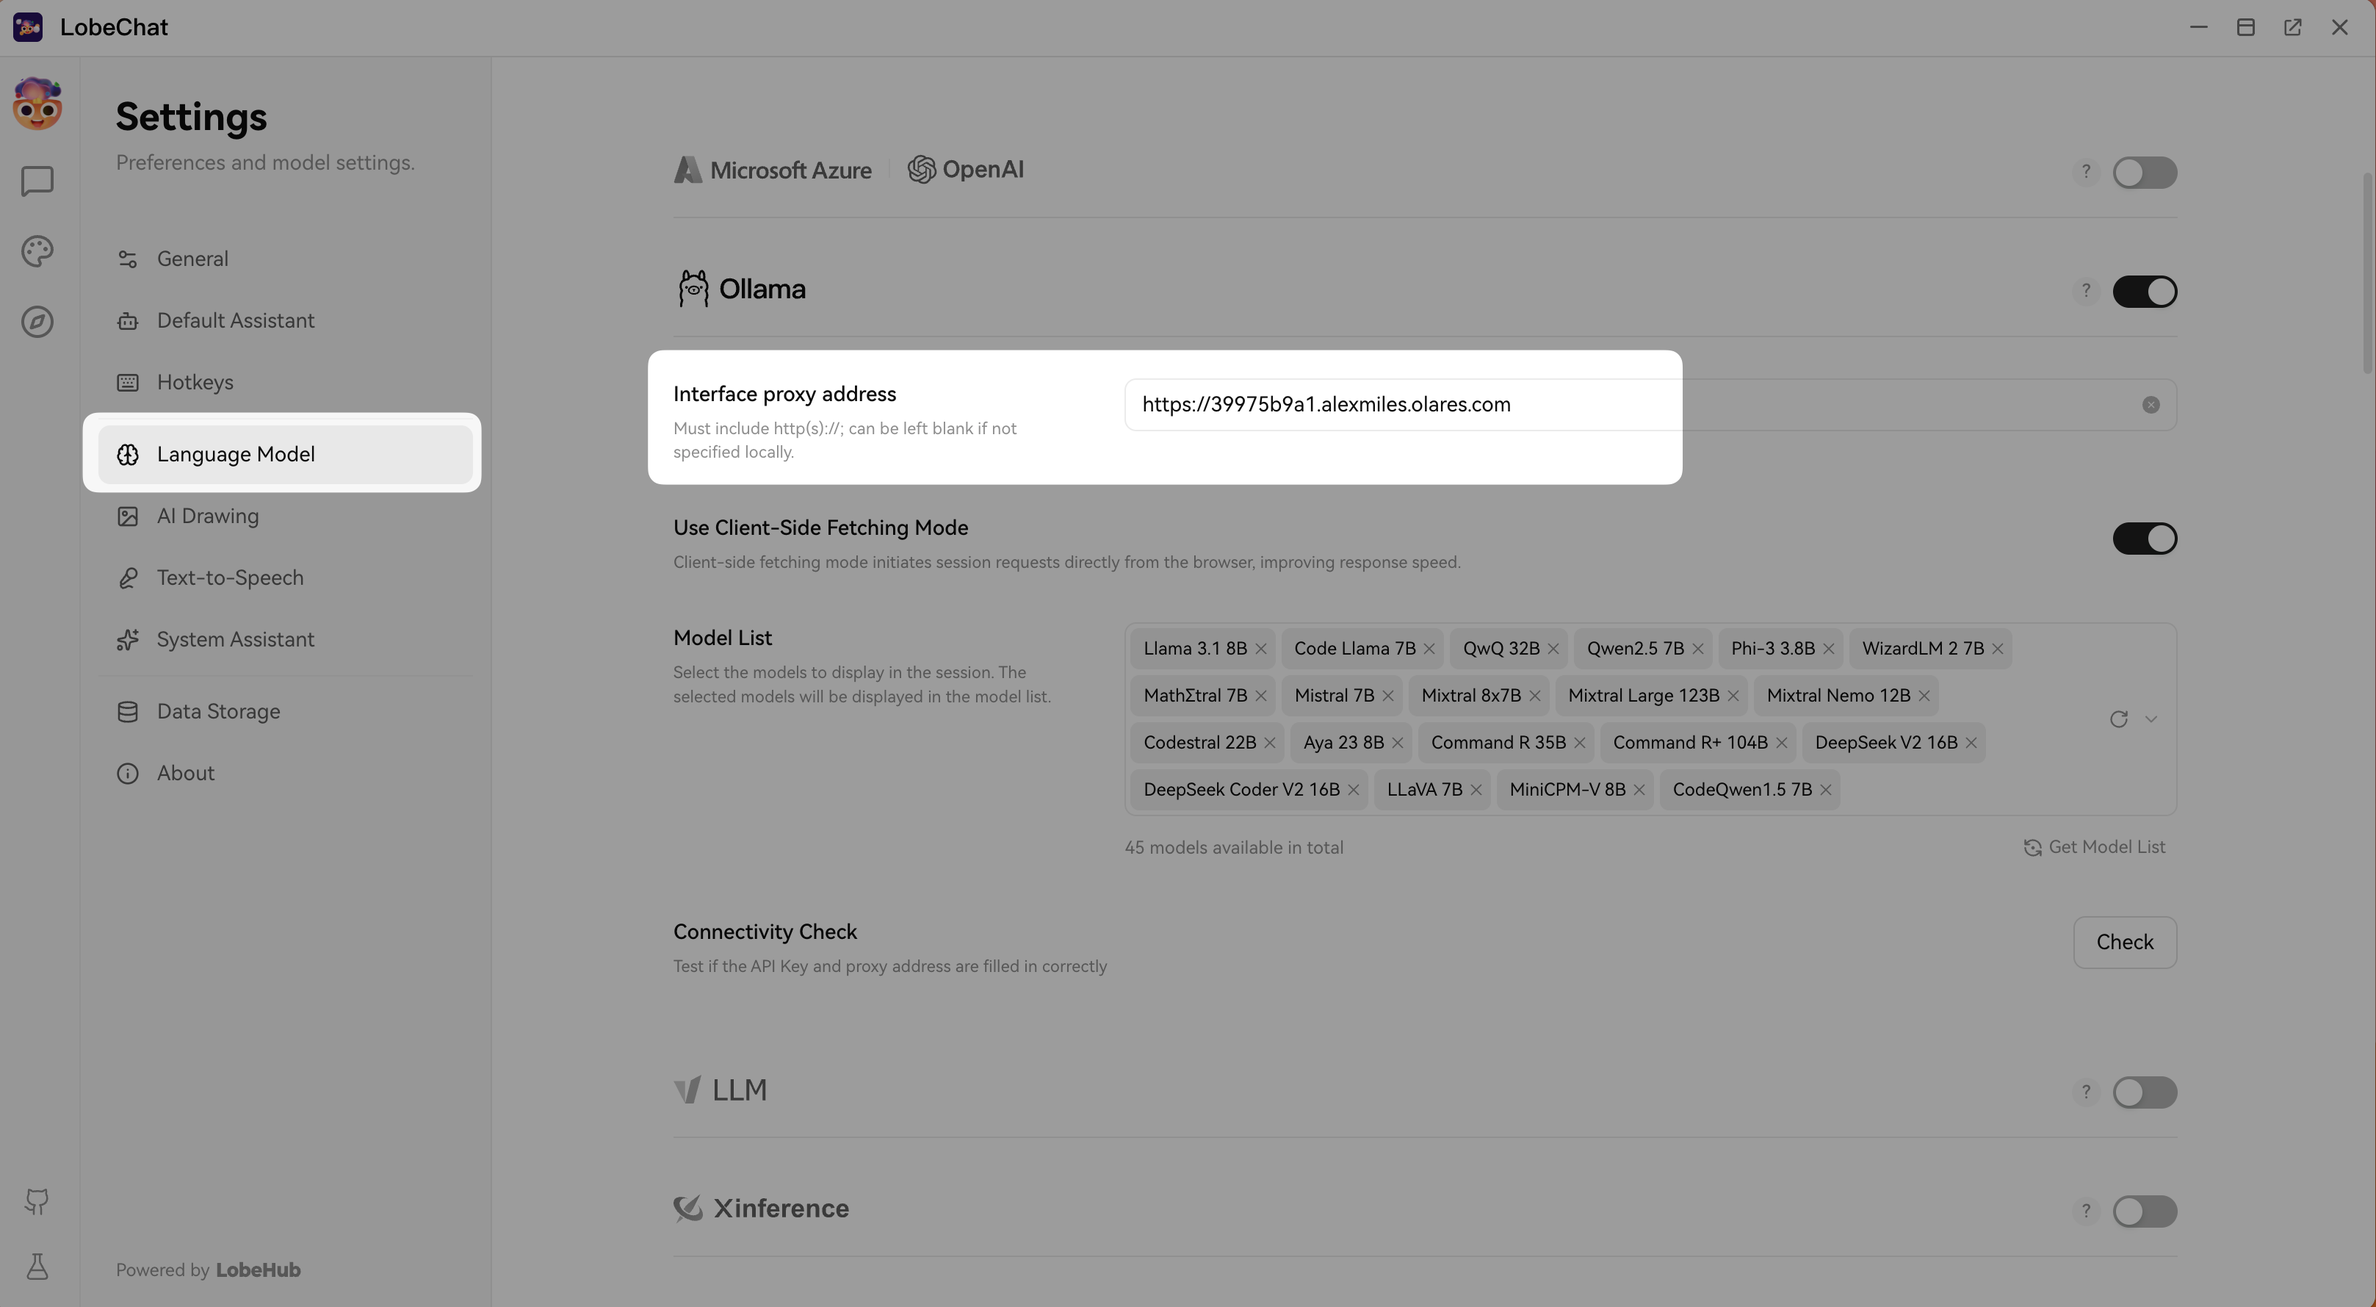
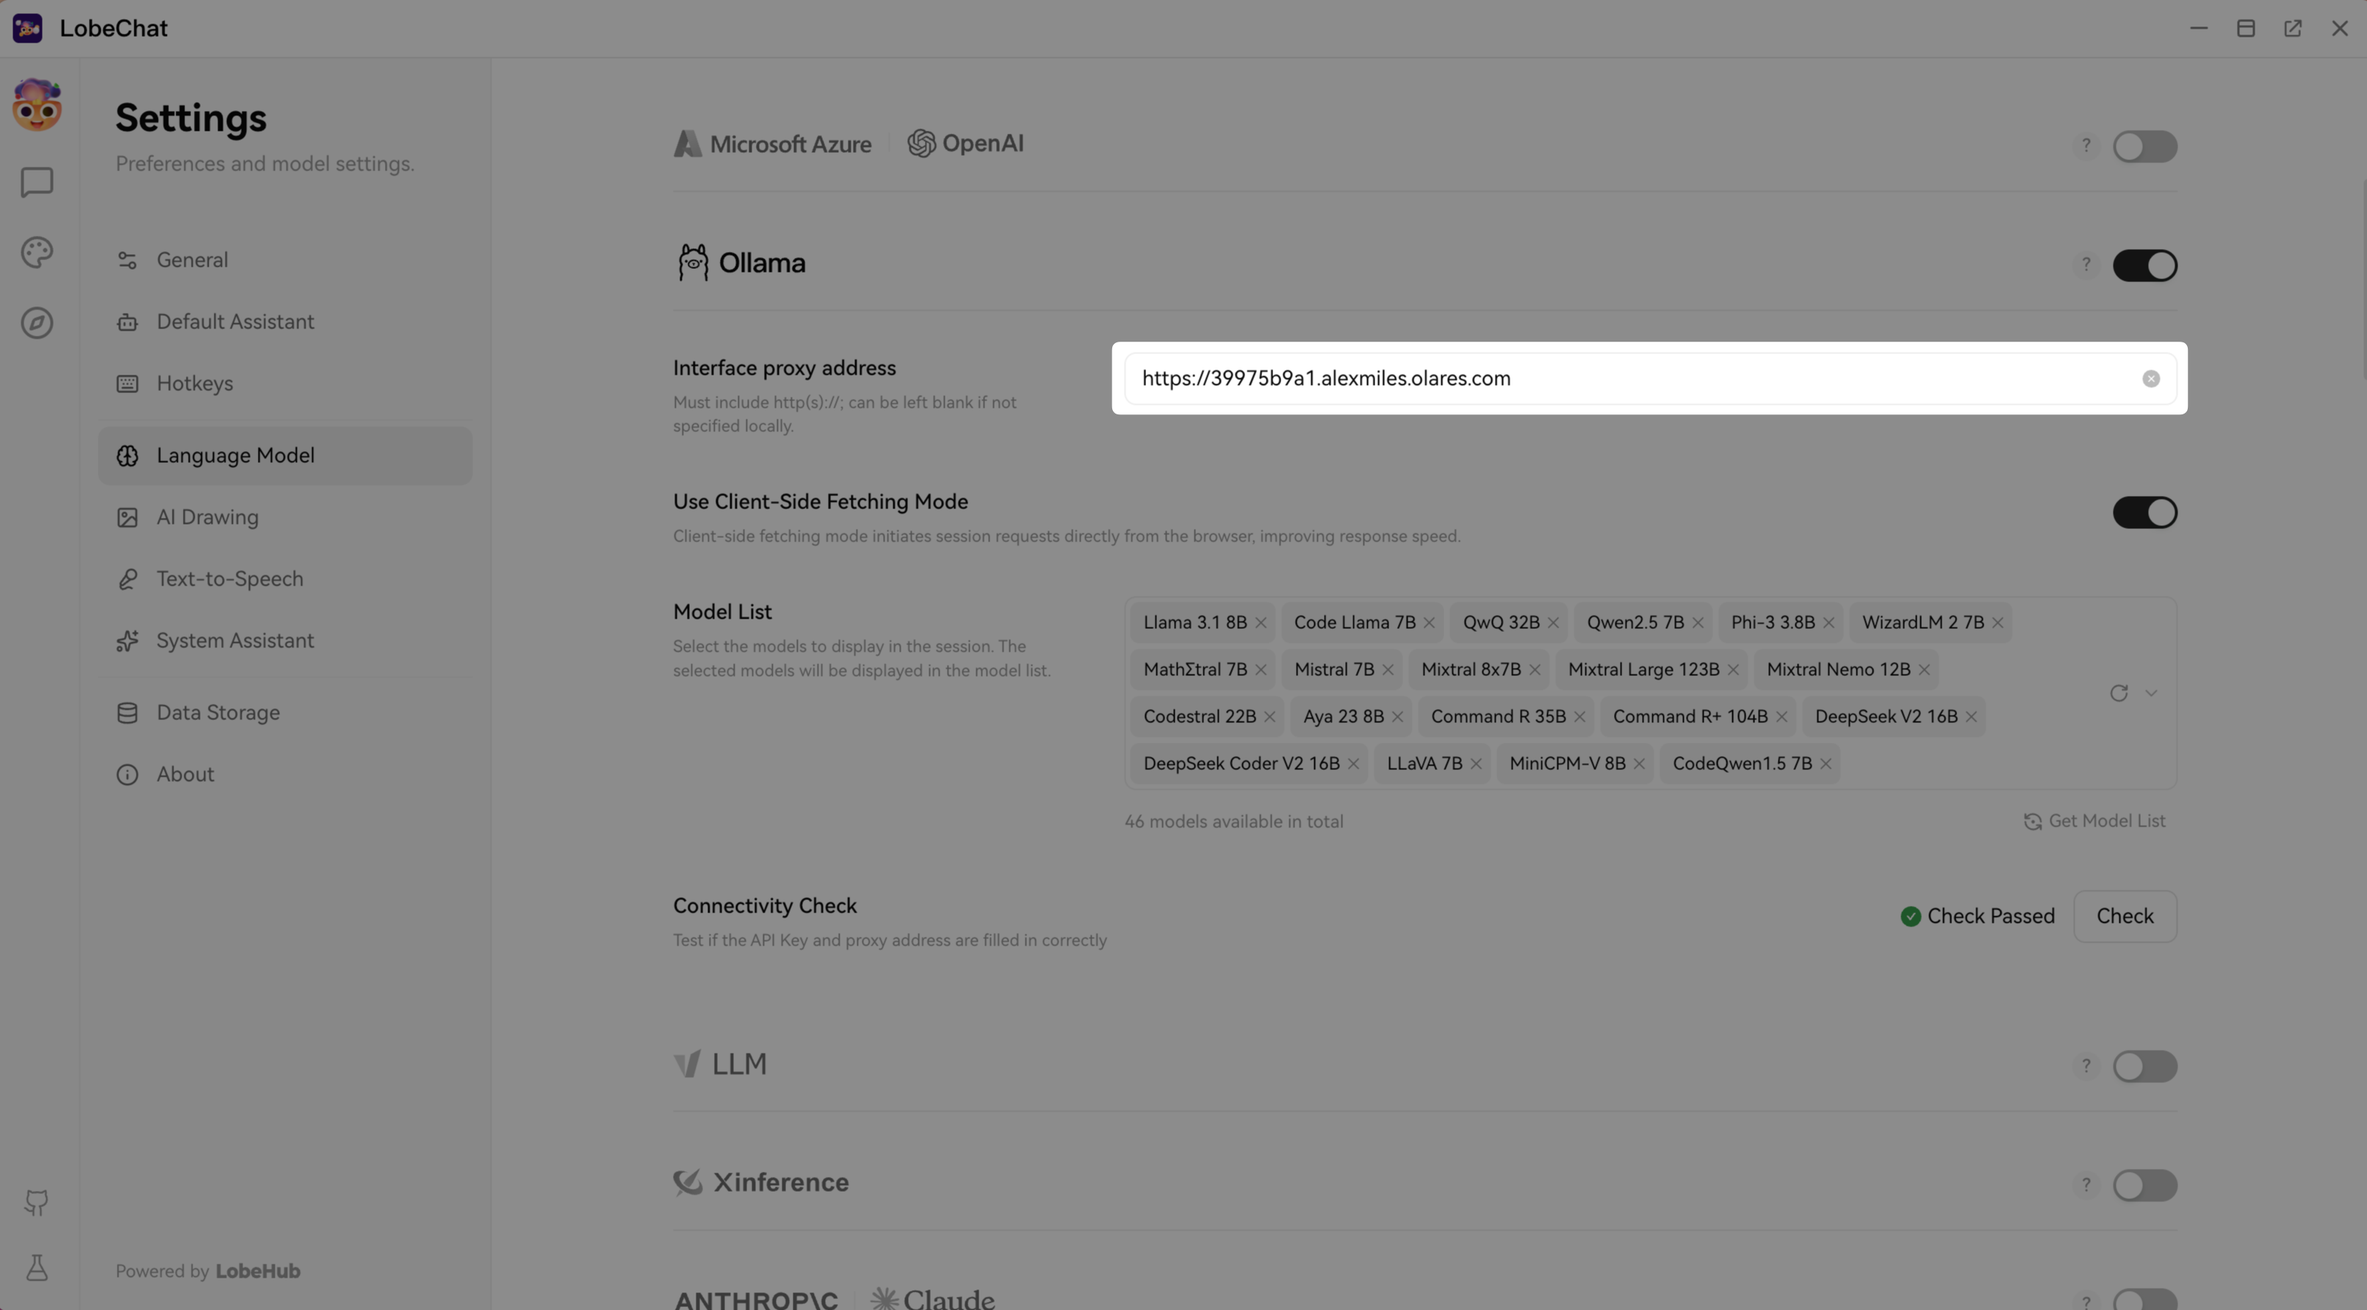
docs/update/address-comments

diff --git a/docs/use-cases/lobechat.md b/docs/use-cases/lobechat.md
@@ -5,33 +5,20 @@ description: Learn how to install LobeChat on Olares and integrate it with Ollam
 
 # Build your local AI assistant with LobeChat
 
-LobeChat is an open-source, modern AI chat framework that supports file uploads, knowledge bases, and multi-modal interactions, ensuring a secure local chat experience. It also supports integration with Ollama, which allows you to use the large language models (LLMs) provided by Ollama to enhance your chat applications within LobeChat easily.
+LobeChat is an open-source, modern AI chat framework that supports file uploads, knowledge bases, and multi-modal interactions, ensuring a secure local chat experience. It also supports integration with Ollama, which allows you to use the large language models (LLMs) provided by Ollama to enhance your chat applications within LobeChat easily. Olares streamlines and simplifies the deployment of both, allowing you to skip complex manual environment configurations.
 
 This guide covers the installation, configuration, and practical usage of these tools to create your personalized AI assistants.
 
 ## Learning objectives
 
 By the end of this guide, you are able to:
-- Understand the relationship between LobeChat and Ollama.
-- Install LobeChat and Ollama directly from the Olares Market.
+- Install LobeChat directly from the Olares Market.
 - Configure LobeChat to communicate with your local Ollama instance.
 - Use LobeChat for specific scenarios such as content writing and coding.
 
 ## Before you begin
 
-### Prerequisites
-
-- Hardware: An Olares-compatible device with sufficient RAM and storage to run local models.
-- System: Olares OS is installed and running.
-- Network: An active internet connection required for installation and operation.
-
-### Concept note
-
-By combining LobeChat's intuitive frontend interface with Ollama's backend capabilities, you can turn your Olares device into a powerful, private AI workstation. 
-
-- LobeChat: The frontend user interface that allows you to interact with various language models via a chat window.
-- Ollama: The backend engine that runs the language models locally, providing computation power and API interfaces. For more information see [Ollama](ollama.md).
-- Olares: The operating system (OS) that streamlines and simplifies the deployment of both, allowing you to skip complex manual environment configurations.
+Ensure that Ollama is installed and running. For more information, see [Download and run local AI models via Ollama](ollama.md).
 
 ## Install LobeChat
 
@@ -39,7 +26,7 @@ Install LobeChat and related dependencies.
 
 1. From the Olares Market, search for "LobeChat".
 
-   ![Search for LobeChat from Market](../public/images/manual/use-cases/find-lobechat.png#bordered)
+   ![Search for LobeChat from Market](/images/manual/use-cases/find-lobechat.png#bordered)
 
 2. Click **Get**, and then click **Install**.
 3. The system automatically detects and prompts you to install necessary dependencies if they are not already installed, such as Ollama. Allow these to install, and then wait for the installation to finish.
@@ -48,46 +35,42 @@ Install LobeChat and related dependencies.
 
 After the installation is completed, you must connect LobeChat to Ollama to make the chat interface work.
 
-1. From the Olares launchpad, click **LobeChat** to open the application.
-2. In LobeChat, go to **Settings** > **Language Model**.
-3. In the **Ollama** section, find the **Interface proxy address** field, and then enter your local Ollama address https://39975b9a1.*UserID*.olares.com. 
+1. Open **LobeChat** from Launchpad.
+2. Click the LobeChat icon in the upper-left corner, and then go to **Settings** > **Language Model**.
 
-   :::info
-   Replace *UserID* with the Olares Admin's local name. For example, `https://39975b9a1.alexmiles.olares.com`.
-   :::
+   ![LobeChat settings menu](/images/manual/use-cases/lobechat-settings-menu.png#bordered)
 
-   ![Interface proxy address connection](../public/images/manual/use-cases/lobechat-connection-setting.png#bordered)
+3. In the **Ollama** section, find the **Interface proxy address** field, and then enter your local Ollama address. 
 
-4. Click **Check** to verify the connection. A **Check Passed** message indicates that the proxy address is correct.
+   ![Interface proxy address connection](/images/manual/use-cases/lobechat-connection-setting.png#bordered)
+
+4. (Optional) To obtain your local Ollama host address, go to Olares **Settings** > **Application** > **Ollama** > **Ollama API** > **Set up endpoint**, and then copy the endpoint address.
+
+   ![Obtain Ollama host address from Olares Settings](/images/manual/use-cases/obtain-ollama-hosturl.png#bordered){width=60%} 
+
+5. Click **Check** under the Ollama model list to verify the connection. A **Check Passed** message indicates that the proxy address is correct.
+
+   ![Ollama connection successful](/images/manual/use-cases/ollama-model-checkpass.png#bordered)
 
 ## Install language models
 
-After connecting to Ollama, LobeChat lists supported models, including models that are not installed yet. 
-
-When you choose a model, LobeChat checks local storage. If the model is not installed, LobeChat prompts you to download it. Once the download completes, the model is ready to use.
-
+After connecting to Ollama, LobeChat lists supported models, including models that are not installed yet. When you choose a model, LobeChat checks local storage. If the model is not installed, LobeChat prompts you to download it. After the download finishes, the model is ready to use.
 
 You can install these models directly through the LobeChat user interface (UI) or via the Ollama command line (CLI).
 
-### Method A: Install via LobeChat UI
+### Install via LobeChat UI
 
-1. In the Chat window, click <i class="material-symbols-outlined">neurology</i> to select the target language model.
-2. Send a message to start a chat with that model.
-3. If the language model is not installed, you are prompted right in the chat to download and install it.
+When you are chatting with a selected language model, if the language model is not installed, you are prompted right in the chat to download and install it.
 
-    ![Install language model via LobeChat UI](../public/images/manual/use-cases/download-in-lobechat.png#bordered)
+![Install language model via LobeChat UI](/images/manual/use-cases/download-in-lobechat.png#bordered)
 
-4. When the installation is completed, the model is ready to use.
+### Install via Ollama CLI
 
-### Method B: Install via Ollama CLI
-
-1. Visit the Ollama library to find the target model. For example, gemma2.
-2. Select the parameters suitable for your hardware specifications.
-3. Copy the run command. For example, `ollama run gemma2`.
-4. Open the Ollama terminal from the Olares launchpad.
-5. Paste the command and press Enter.
-6. To verify the installation, run the `ollama list` command.
-
+1. Check the [Ollama Library](https://ollama.com/library) to explore available models.
+2. To download a model, use the following command:
+```bash
+ollama pull [model]
+```
 For more information, see [Download and run local AI models via Ollama](ollama.md).
 
 ## Use scenarios
@@ -115,7 +98,7 @@ To help you get started, this guide demonstrates only some typical configuration
 
 1. Click **Open Chat Settings**.
 
-   ![Open Chat Settings](../public/images/manual/use-cases/open-chat-settings.png#bordered)
+   ![Open Chat Settings](/images/manual/use-cases/open-chat-settings.png#bordered)
 
 2. Customize assistant identity.
 
@@ -123,7 +106,7 @@ To help you get started, this guide demonstrates only some typical configuration
    
    b. Click **Update Assistant Information**.
 
-   ![LobeChat session settings](../public/images/manual/use-cases/lobechat-session-settings.png#bordered)   
+   ![LobeChat session settings](/images/manual/use-cases/lobechat-session-settings.png#bordered)   
 
 3. Define assistant role.
 
@@ -154,18 +137,18 @@ To help you get started, this guide demonstrates only some typical configuration
 
    a. Hover over the plug-in icon and click **Plugin Store**.
 
-      ![Install LobeChat plug-in](../public/images/manual/use-cases/lobechat-plugin-install.png#bordered)
+      ![Install LobeChat plug-in](/images/manual/use-cases/lobechat-plugin-install.png#bordered)
 
    b. On the **LobeHub Plugins** tab, search for `image`, select **Pollinate drawing** for example, and then click **Install**.
 
-      ![Install LobeChat plug-in Pollinate Drawing](../public/images/manual/use-cases/install-pollinate-drawing.png#bordered)
+      ![Install LobeChat plug-in Pollinate Drawing](/images/manual/use-cases/install-pollinate-drawing.png#bordered)
 
 #### 4. Interact with the assistant
 
 1. Enter and send your draft content to get a refined version.
 2. Hover over the plug-in icon to ensure that **Pollinate drawing** is enabled, and then ask the assistant to create a cover image for the content. It uses the enabled plug-in to generate an image.
 
-   ![LobeChat plug-in enabled](../public/images/manual/use-cases/lobechat-plugin-enable.png#bordered)
+   ![LobeChat plug-in enabled](/images/manual/use-cases/lobechat-plugin-enable.png#bordered)
 
 3. Brainstorm and iterate with the language model to get your ideal content textually and visually.
 
@@ -174,24 +157,6 @@ To help you get started, this guide demonstrates only some typical configuration
 If you are satisfied with the performance of the assistant and want to access it quickly later on, hover over it in the sidebar, click <i class="material-symbols-outlined">more_vert</i>, and then click **Pin** to keep it accessible at the top of your list.
 
 ![Pin LobeChat assistant](../public/images/manual/use-cases/pin-writing-bot.png#bordered)
-<!--this senario pending the text to speech plug-in work
-### Scenario 2: Training and eduction
-
-#### Task: Language learning
-
-#### Selected model: Llama 3.1
-
-LIAMA (Language Intelligence Model for AI Applications) is a large language model that specializes in multilingual support, natural language understanding, domain-specific knowledge, content creation, summarization, and translation.
-
-#### Procedure
-
-1. From the left navigation pane, click **New Assistant**.
-2. From the top language model list, switch the active model to **Llama 3.1**.
-2. In the **Role Setting** area, click <i class="material-symbols-outlined">edit_square</i> to enter your prompt for this specific role. For example, 
-
-   c. Customize your own opening message or question displayed when the conversation starts by going to **Settings > Default Assistant > Opening Settings**. You can introduce this chat assistant's features or facilitate your conversations by providing guiding questions. 
-   d. Go back to the chat and engage in the conversation to practice French syntax and vocabulary without language barriers.
--->
 
 ### Coding assistant
 
@@ -207,7 +172,7 @@ To help you get started, this guide demonstrates only some typical configuration
 
 1. Click **Open Chat Settings**.
 
-   ![Open Chat Settings](../public/images/manual/use-cases/open-chat-settings.png#bordered)
+   ![Open Chat Settings](/images/manual/use-cases/open-chat-settings.png#bordered)
 
 2. Customize assistant identity.
 
@@ -215,7 +180,7 @@ To help you get started, this guide demonstrates only some typical configuration
    
    b. Click **Update Assistant Information**.
 
-   ![LobeChat session settings](../public/images/manual/use-cases/lobechat-session-settings.png#bordered)    
+   ![LobeChat session settings](/images/manual/use-cases/lobechat-session-settings.png#bordered)    
 
 3. Define assistant role.
 
@@ -280,13 +245,13 @@ To help you get started, this guide demonstrates only some typical configuration
 
    c. Check your current folder. You should see a new file named `employees.csv`. Open it to verify the generated mock data.
 
-      ![Dev bot result verification](../public/images/manual/use-cases/dev-bot-result.png#bordered)  
+      ![Dev bot result verification](/images/manual/use-cases/dev-bot-result.png#bordered)  
 
 #### 4. Pin the assistant
 
 If you are satisfied with the assistant's performance, hover over it in the sidebar, click <i class="material-symbols-outlined">more_vert</i>, and then click **Pin** to keep it accessible at the top of your list.
 
-![Pin dev bot](../public/images/manual/use-cases/pin-dev-bot.png#bordered)
+![Pin dev bot](/images/manual/use-cases/pin-dev-bot.png#bordered)
 
 ### Real-time news analyst
 
@@ -302,7 +267,7 @@ To help you get started, this guide demonstrates only some typical configuration
 
 1. Click **Open Chat Settings**.
 
-   ![Open Chat Settings](../public/images/manual/use-cases/open-chat-settings.png#bordered)
+   ![Open Chat Settings](/images/manual/use-cases/open-chat-settings.png#bordered)
 
 2. Customize assistant identity.
 
@@ -310,7 +275,7 @@ To help you get started, this guide demonstrates only some typical configuration
    
    b. Click **Update Assistant Information**.
 
-   ![LobeChat session settings](../public/images/manual/use-cases/lobechat-session-settings.png#bordered)   
+   ![LobeChat session settings](/images/manual/use-cases/lobechat-session-settings.png#bordered)   
 
 3. Define assistant role.
 
@@ -337,7 +302,7 @@ To help you get started, this guide demonstrates only some typical configuration
    - It excels at various NLP tasks such as contextual understanding and content writing.
    - It is compatible with functional calling, so you can install LobeChat plug-ins for enhanced capabilities.
 
-   ![Select language model](../public/images/manual/use-cases/select-qwen.png#bordered) 
+   ![Select language model](/images/manual/use-cases/select-qwen.png#bordered) 
 
 3. Install a web-access plug-in to allow the assistant to access live web pages and analyze real-time content from any URLs you provide. For example, **Website Crawler**. 
 
@@ -347,17 +312,17 @@ To help you get started, this guide demonstrates only some typical configuration
 
    a. Hover over the plug-in icon and click **Plugin Store**.
 
-   ![Install LobeChat plug-in](../public/images/manual/use-cases/select-plugin.png#bordered)
+   ![Install LobeChat plug-in](/images/manual/use-cases/select-plugin.png#bordered)
 
    b. On the **LobeHub Plugins** tab, search for `website`, select **Website Crawler** for example, and then click **Install**.
 
-   ![Install LobeChat plug-in Website Crawler](../public/images/manual/use-cases/install-website-crawler.png#bordered)
+   ![Install LobeChat plug-in Website Crawler](/images/manual/use-cases/install-website-crawler.png#bordered)
 
 #### 4. Interact with the assistant
 
 1. In the basic interaction area, hover over the plug-in icon to ensure that the **Website Crawler** plug-in is enabled.
 
-   ![LobeChat crawler plug-in enabled](../public/images/manual/use-cases/website-crawler-enabled.png#bordered)
+   ![LobeChat crawler plug-in enabled](/images/manual/use-cases/website-crawler-enabled.png#bordered)
 
 2. Send the URL address to the chat. For example, `https://github.com/trending`.
 3. Paste and send the URL to the chat. The assistant lists specific news stories with summaries.
@@ -366,4 +331,4 @@ To help you get started, this guide demonstrates only some typical configuration
 
 If you find this useful for daily updates, hover over it in the sidebar, click <i class="material-symbols-outlined">more_vert</i>, and then click **Pin** to keep it accessible at the top of your list.
 
-![Pin chat assistant to list for easy access](../public/images/manual/use-cases/pin-daily-tech-digest.png#bordered)
+![Pin chat assistant to list for easy access](/images/manual/use-cases/pin-daily-tech-digest.png#bordered)
